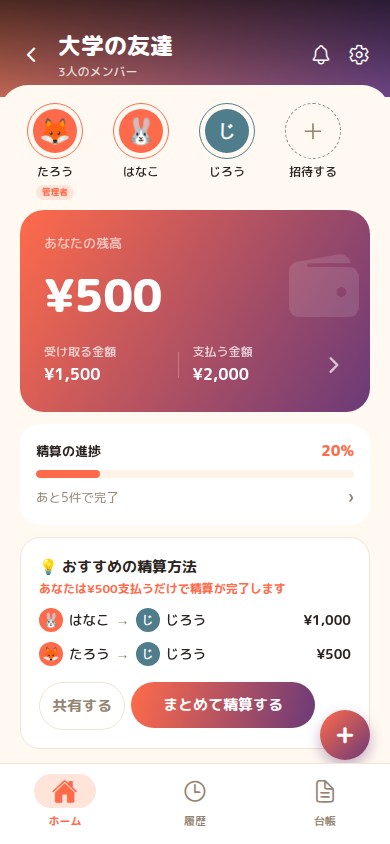
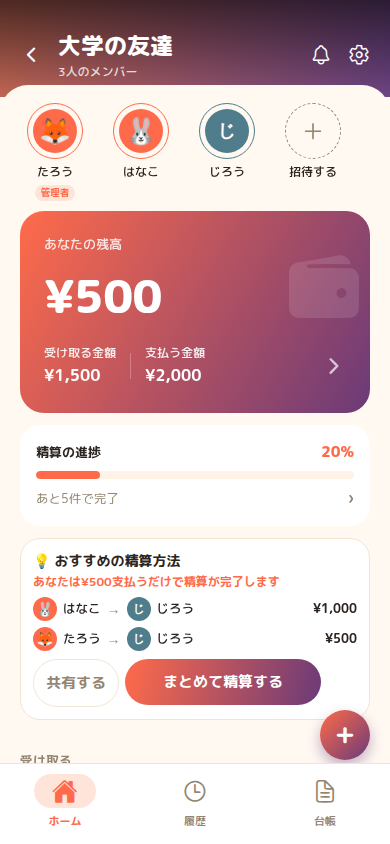
kashikari: 残高カードの細部・管理者バッジ・おすすめ精算方法のサイズ調整
4点の指摘への対応。スキーマ変更なし。

- 「あなたの残高・受け取る金額・支払う金額の白をもう少し濃くして」:
  見出し(heading)とラベル(grossLabel)の不透明度を0.65→0.85、
  0.75→0.92に上げた
- 「受け取る金額と支払う金額の間にある|を2つの間に配置して」: 2つの
  列(grossCol)がflex:1でカード幅いっぱいに引き伸ばされていたため、
  テキストの実際の幅と区切り線の位置がずれていた。列を中身の幅に
  フィットさせる形に変更し、区切り線が常にテキストとテキストの真ん中
  に来るようにした(右端に固定したいシェブロンは、その手前に
  flex:1のスペーサーを挟んで押し出す形にした)
- 「たろうの下の管理者の文字をもう少しだけ大きくして」:
  adminBadgeTextのfontSizeを8.5→9.5に
- 「おすすめの精算の枠も＋より上に収めたい。文字や幅などを調整して」:
  AutoSettlePlanカードのpadding・行間・フォントサイズを一回り詰め、
  カードの高さ自体を縮めて、右下に浮く＋ボタン(FAB)より上に収まる
  ようにした

また、README内で「## 構成」の見出しが前回のコミットで誤って消えて
いたのを復元した。

NetSummary.tsx・GroupScreen.tsx・DemoGroupScreen.tsx・
AutoSettlePlan.tsxを変更。tsc --noEmit / expo export --platform web
(通常+デモモード)とも問題なし。Playwrightで4点とも反映され、
おすすめの精算方法カードが＋ボタンと重ならないことを確認済み。

Claude-Session: https://claude.ai/code/session_016w6H5fipiVvbtfX7sgu87W

diff --git a/personal-side-projects/kashikari/mobile/src/components/NetSummary.tsx b/personal-side-projects/kashikari/mobile/src/components/NetSummary.tsx
@@ -76,7 +76,14 @@ export default function NetSummary({ totals, balances, meId }: Props) {
                 形に変更した。grossRowはalignItems:'center'のため、
                 2行(ラベル+金額)のグロス列と高さの異なるシェブロンは
                 行全体の高さの中央=ちょうどラベルと金額の間の高さに
-                自然と揃う。 */}
+                自然と揃う。
+                「|を2つの間に配置して」という指摘を受け、grossColを
+                flex:1(=カード幅いっぱいに引き伸ばされ、divider位置が
+                テキストの実際の幅とずれる)から、中身の幅にフィットする
+                形に変更。2つの列とdividerが3つ並んで自然にひとかたまり
+                になるため、dividerは常にテキストとテキストの真ん中に
+                来る。シェブロンだけは右端に固定したいので、その手前に
+                flex:1のスペーサーを挟んで右へ押し出している。 */}
             <View style={styles.grossRow}>
               <View style={styles.grossCol}>
                 <Text style={styles.grossLabel}>{t.netSummary.receiving}</Text>
@@ -87,6 +94,7 @@ export default function NetSummary({ totals, balances, meId }: Props) {
                 <Text style={styles.grossLabel}>{t.netSummary.paying}</Text>
                 <Text style={styles.grossAmount}>{formatMoney(payable, total.currency)}</Text>
               </View>
+              <View style={styles.grossSpacer} />
               <Ionicons name="chevron-forward" size={24} color="rgba(255,255,255,0.7)" style={styles.chevron} />
             </View>
           </View>
@@ -110,10 +118,13 @@ const styles = StyleSheet.create({
   // (top:12)ではなく、金額(amount, fontSize46)の高さと揃うところまで
   // topを下げた。
   walletIcon: { position: 'absolute', top: 34, right: 6 },
+  // 「あなたの残高・受け取る金額・支払う金額の白をもう少し濃くして」
+  // という指摘を受け、見出し・ラベルの不透明度を上げた(0.65→0.85、
+  // 0.75→0.92)。
   heading: {
     ...fonts.bodyMedium,
     fontSize: 13,
-    color: 'rgba(255,255,255,0.65)',
+    color: 'rgba(255,255,255,0.85)',
     marginBottom: 6,
   },
   line: { paddingVertical: 2 },
@@ -121,11 +132,14 @@ const styles = StyleSheet.create({
   // 「¥500も大きく」という指摘を受け、40→46に拡大した。
   amount: { ...fonts.display, fontSize: 46, color: '#fff', letterSpacing: -0.5 },
   grossRow: { flexDirection: 'row', alignItems: 'center', marginTop: 14 },
-  grossCol: { flex: 1 },
+  // 「|を2つの間に配置して」の対応でflex:1をやめ、中身の幅にフィット
+  // させた(詳細はJSX側のコメント参照)。
+  grossCol: {},
   grossDivider: { width: 1, height: 26, backgroundColor: 'rgba(255,255,255,0.25)', marginHorizontal: 14 },
-  grossLabel: { ...fonts.bodyMedium, fontSize: 12, color: 'rgba(255,255,255,0.75)', marginBottom: 2 },
+  grossLabel: { ...fonts.bodyMedium, fontSize: 12, color: 'rgba(255,255,255,0.92)', marginBottom: 2 },
   grossAmount: { ...fonts.bodySemiBold, fontSize: 16, color: '#fff' },
-  // grossRowの最後の要素として並ぶシェブロン(詳細はJSX側のコメント参照)。
+  // シェブロンを右端に押し出すための可変スペーサー。
+  grossSpacer: { flex: 1 },
   chevron: { marginLeft: 10 },
   settledWrap: {
     backgroundColor: colors.surface,

diff --git a/personal-side-projects/kashikari/mobile/src/components/AutoSettlePlan.tsx b/personal-side-projects/kashikari/mobile/src/components/AutoSettlePlan.tsx
@@ -94,25 +94,27 @@ const styles = StyleSheet.create({
   // 「グラデーションを多用しすぎない。その他は白背景＋薄いグレーの
   // 境界線を基本とする」という指摘を受け、枠線をブランドカラー
   // (accentSoft)から薄いグレー(line)に変更した。
+  // 「おすすめの精算の枠も＋より上に収めたい。文字や幅などを調整して」
+  // という指摘を受け、カード全体を一回り詰めた(padding・行間・
+  // フォントサイズを縮小し、カードの高さ自体を縮めて、右下に浮く
+  // ＋ボタン(FAB)より上に収まるようにした)。
   card: {
     backgroundColor: colors.surface,
     borderRadius: 20,
-    padding: 18,
+    padding: 12,
     marginBottom: 18,
     borderWidth: 1.5,
     borderColor: colors.line,
   },
-  title: { ...fonts.bodySemiBold, fontSize: 15, color: colors.ink },
+  title: { ...fonts.bodySemiBold, fontSize: 14, color: colors.ink },
   // 「『¥500支払うだけで精算完了します』の説明を目立たせる」という
   // 指摘を受け、色をmutedからaccentに、太さをbodySemiBoldに変更した。
-  // 「文字を少し小さく。その分できたスペースを上に上げて」という指摘を
-  // 受け、fontSizeを13→12、marginBottomを14→10に詰めた。
-  subtitle: { ...fonts.bodySemiBold, fontSize: 12, color: colors.accent, marginTop: 2, marginBottom: 10 },
-  rows: { gap: 10, marginBottom: 16 },
+  subtitle: { ...fonts.bodySemiBold, fontSize: 12, color: colors.accent, marginTop: 2, marginBottom: 6 },
+  rows: { gap: 6, marginBottom: 8 },
   row: { flexDirection: 'row', alignItems: 'center', gap: 6 },
-  name: { ...fonts.bodyMedium, fontSize: 13.5, color: colors.ink, flexShrink: 1 },
+  name: { ...fonts.bodyMedium, fontSize: 12.5, color: colors.ink, flexShrink: 1 },
   arrow: { color: colors.muted },
-  amount: { ...fonts.bodySemiBold, fontSize: 13.5, color: colors.ink, marginLeft: 'auto' },
+  amount: { ...fonts.bodySemiBold, fontSize: 12.5, color: colors.ink, marginLeft: 'auto' },
   // 「＋ボタンがこのカードと重なっている」という指摘への対応。右下に
   // 浮くFAB(幅50・右余白20)の左端までボタンの右端が収まるよう余白を
   // 確保している(FABを60→50に縮小したのに合わせてpaddingRightも

diff --git a/personal-side-projects/kashikari/mobile/src/screens/GroupScreen.tsx b/personal-side-projects/kashikari/mobile/src/screens/GroupScreen.tsx
@@ -610,10 +610,11 @@ const styles = StyleSheet.create({
     justifyContent: 'center',
   },
   memberSlotName: { ...fonts.bodyMedium, fontSize: 12, color: colors.ink, maxWidth: 68 },
-  // 「『管理者』タグは位置・サイズで問題ないが、少し小さくして主張を
-  // 弱める」という指摘を受け、paddingとfontSizeを一段階小さくした。
+  // 過去に「少し小さくして主張を弱める」という指摘でfontSizeを
+  // 落としていたが、「管理者の文字をもう少しだけ大きくして」という
+  // 指摘を受け、8.5→9.5に少し戻した。
   adminBadge: { backgroundColor: colors.accentSoft, borderRadius: 999, paddingVertical: 1, paddingHorizontal: 6 },
-  adminBadgeText: { ...fonts.bodySemiBold, fontSize: 8.5, color: colors.accent },
+  adminBadgeText: { ...fonts.bodySemiBold, fontSize: 9.5, color: colors.accent },
   // 「招待するの◯もアイコンと同じ大きさにして」という指摘を受け、
   // 44(アバター本体と同じ)→56(アバター+リングの見た目上の外径と同じ)
   // に拡大した。通常メンバーはリング(avatarRing、56px)込みで見た目の

diff --git a/personal-side-projects/kashikari/mobile/src/demo/DemoGroupScreen.tsx b/personal-side-projects/kashikari/mobile/src/demo/DemoGroupScreen.tsx
@@ -575,7 +575,7 @@ const styles = StyleSheet.create({
   },
   memberSlotName: { ...fonts.bodyMedium, fontSize: 12, color: colors.ink, maxWidth: 68 },
   adminBadge: { backgroundColor: colors.accentSoft, borderRadius: 999, paddingVertical: 1, paddingHorizontal: 6 },
-  adminBadgeText: { ...fonts.bodySemiBold, fontSize: 8.5, color: colors.accent },
+  adminBadgeText: { ...fonts.bodySemiBold, fontSize: 9.5, color: colors.accent },
   avatarCircle: {
     width: 56,
     height: 56,
